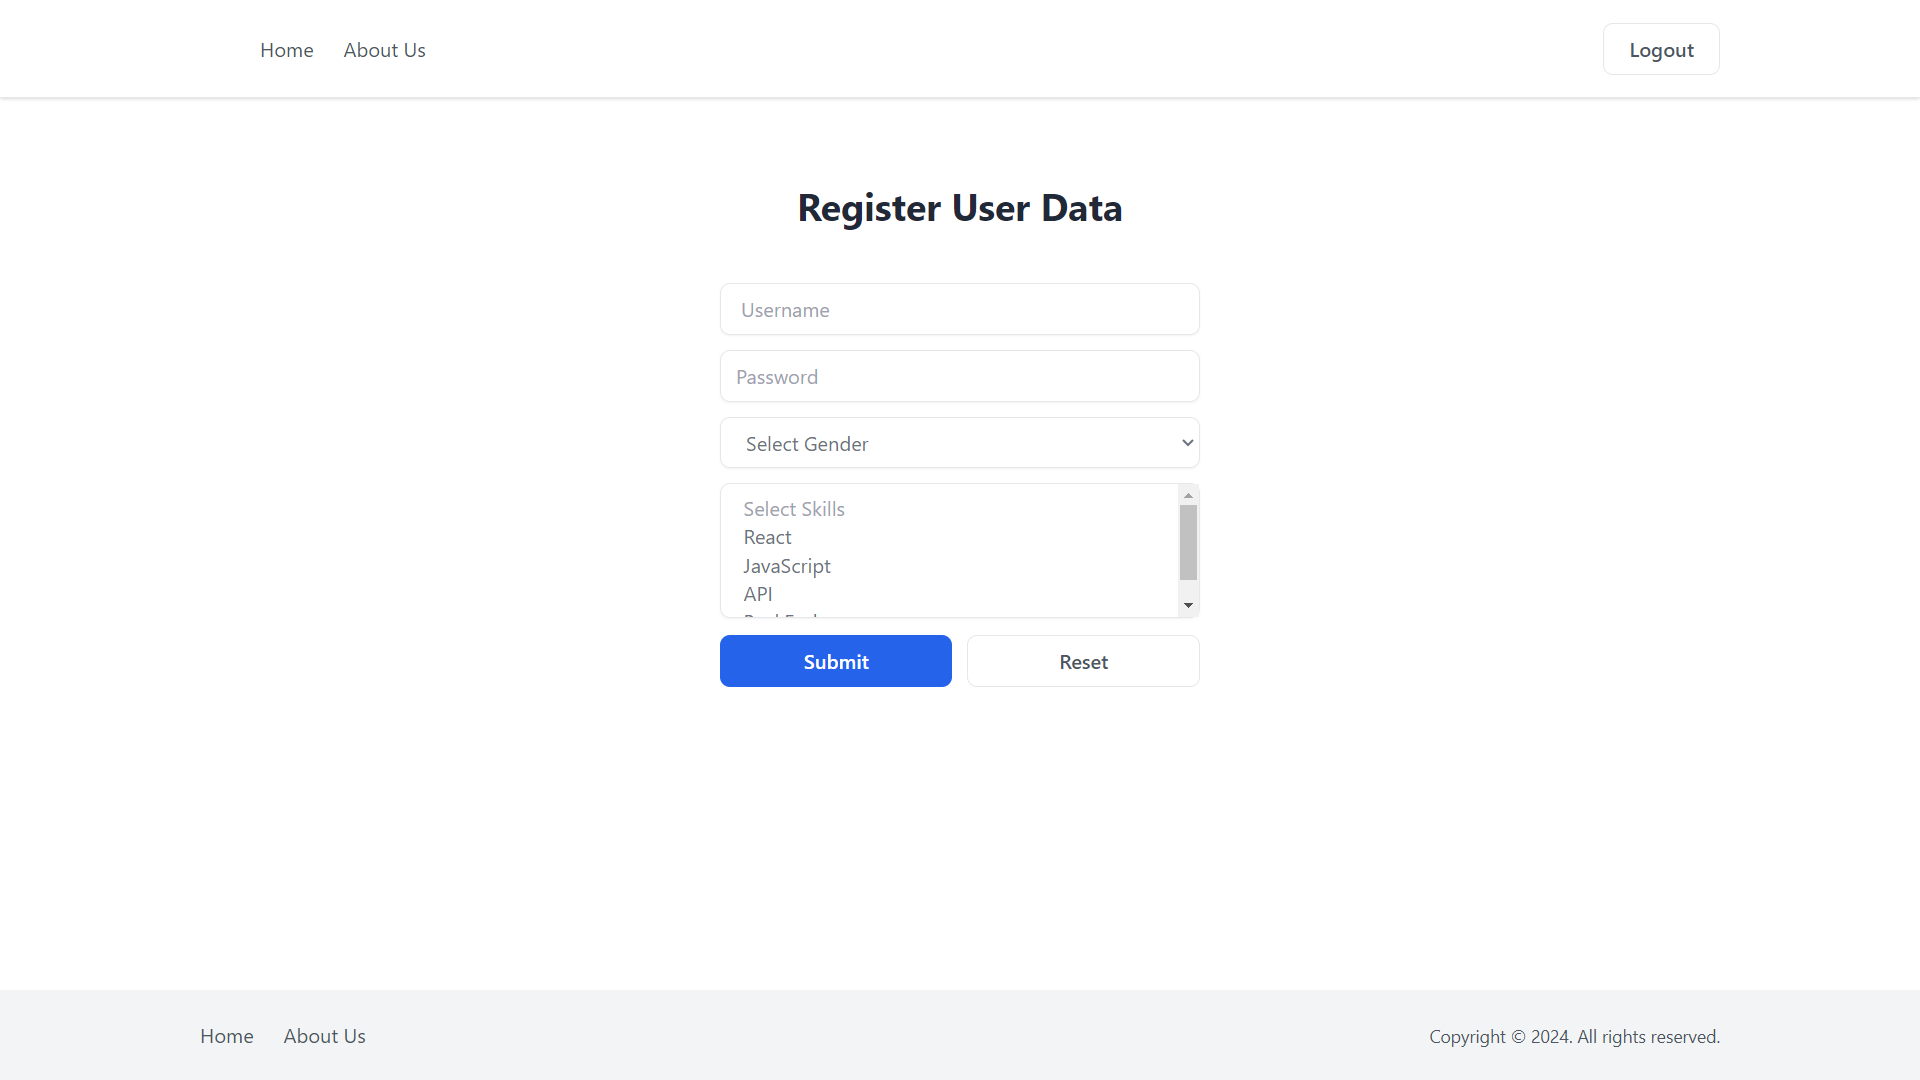
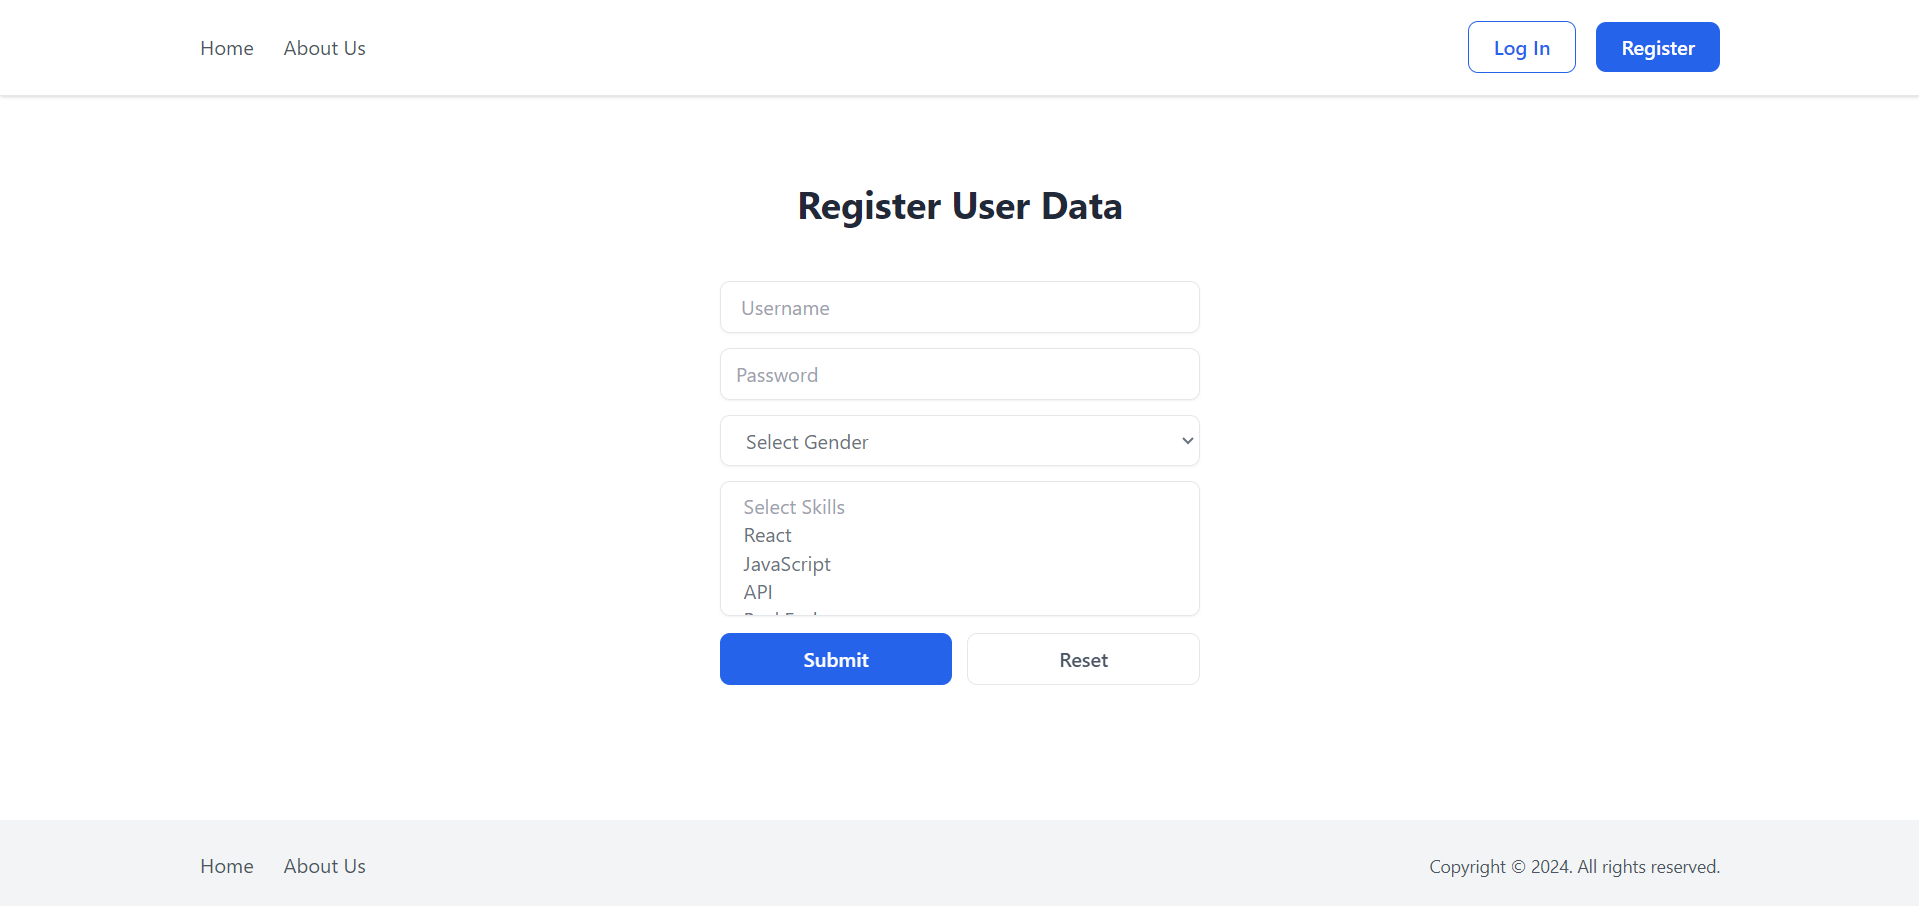
updated homepage.png

diff --git a/users/templates/users/layout.html b/users/templates/users/layout.html
@@ -12,7 +12,7 @@
         <nav class="sticky top-0 bg-white border-b shadow py-1.5">
             <div class="flex justify-between items-center py-3 px-4 max-w-screen-xl mx-auto md:px-8">
                 <ul class="flex-1 justify-between mt-12 md:flex md:mt-0 hidden">
-                    <div class="items-center space-y-5 md:flex md:space-x-6 md:space-y-0 md:ml-12">
+                    <div class="items-center space-y-5 md:flex md:space-x-6 md:space-y-0">
                         <li class="text-gray-600 hover:text-gray-900">
                             <a href="{% url 'users:index' %}">Home</a>
                         </li>
